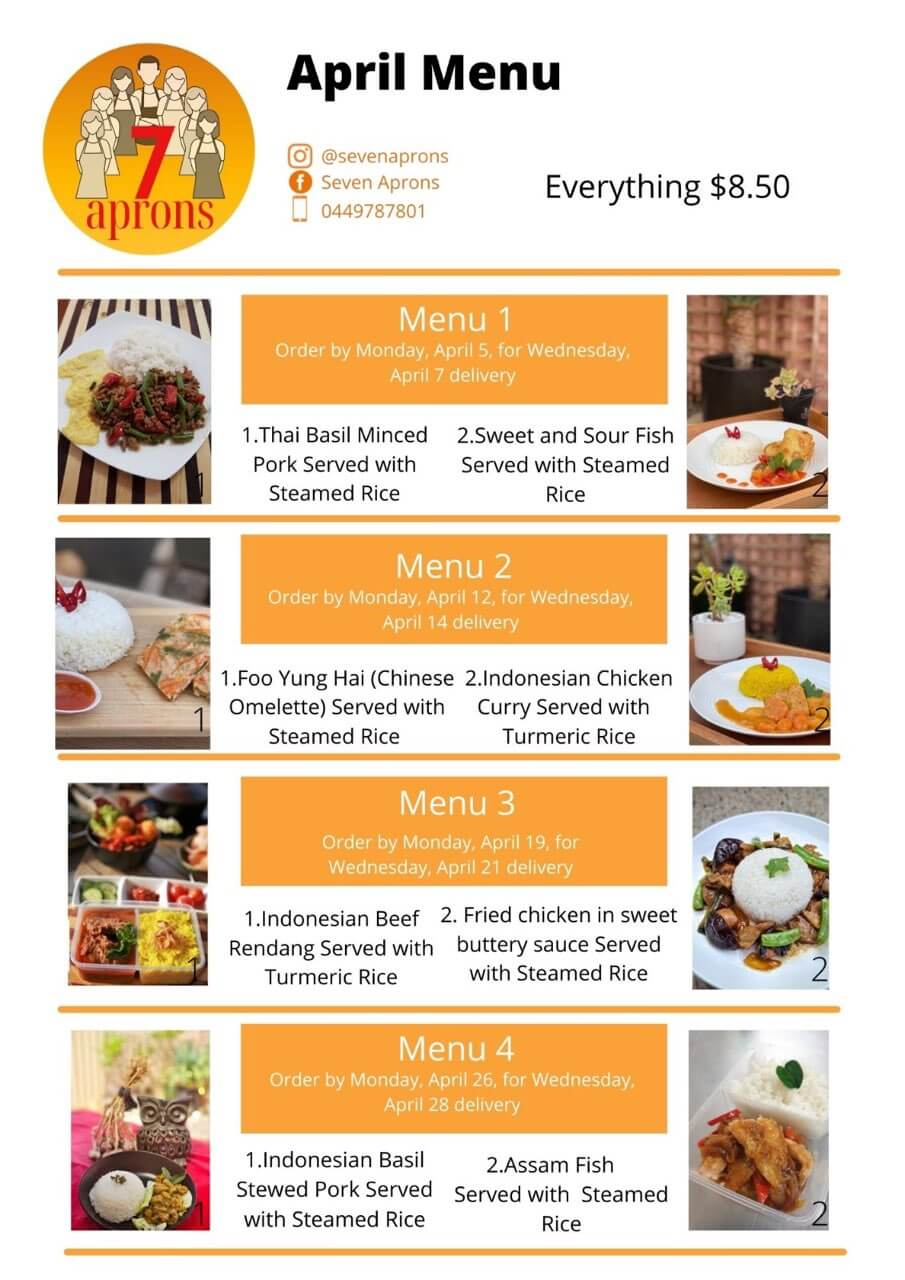
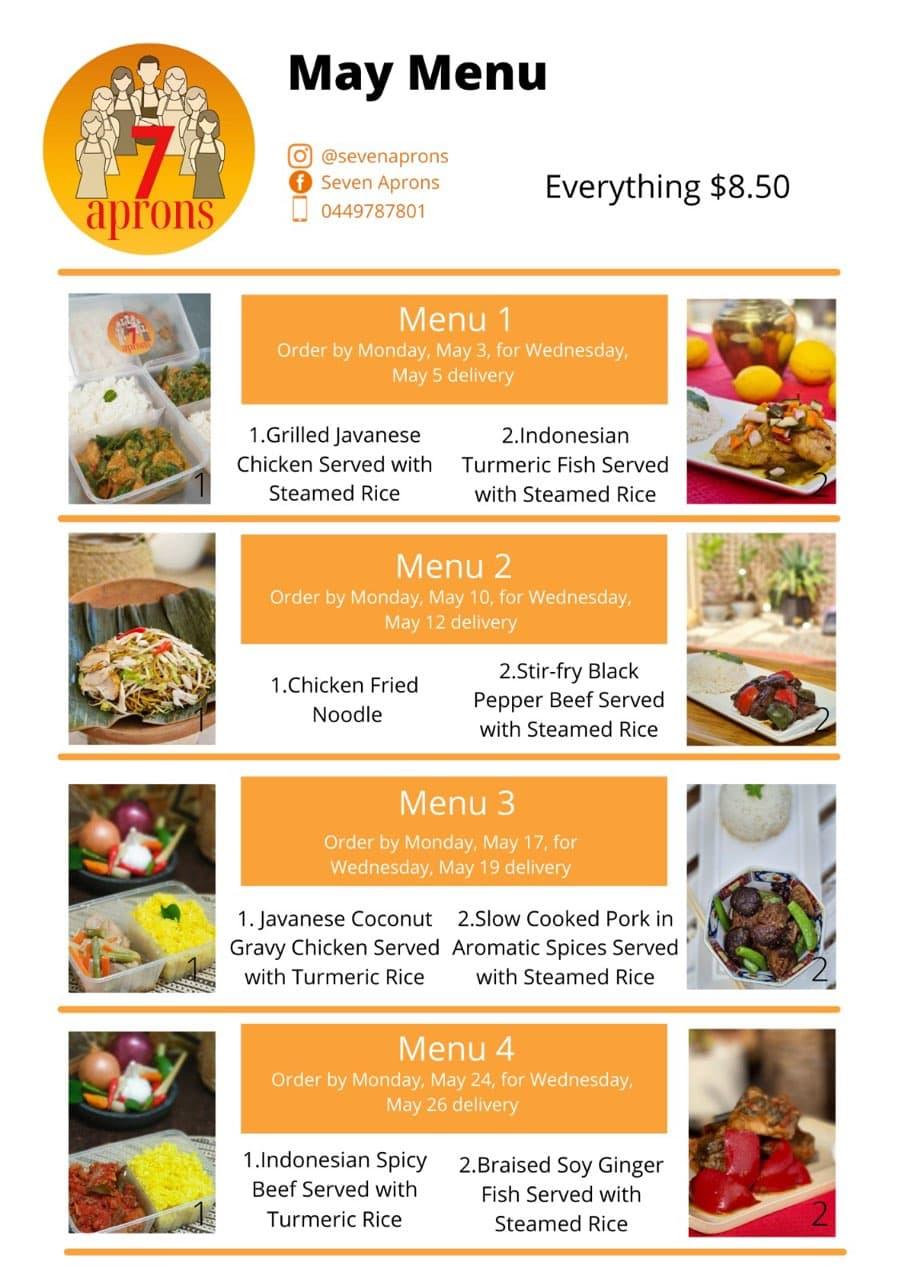
feat: update for May

Changed region(s): [[0.0619, 0.2188, 0.9282, 0.9688], [0.3094, 0.0312, 0.6188, 0.0938]]

diff --git a/components/OnlineOrder/OnlineOrder.tsx b/components/OnlineOrder/OnlineOrder.tsx
@@ -54,15 +54,10 @@ export const OnlineOrder = () => {
       <Form onSubmit={handleSubmit}>
         <Container>
           {order
-            .sort((a, b) => a.week - b.week)
+            .sort((a, b) => a.order - b.order)
             .map((item) => {
               return (
                 <div key={item.price}>
-                  {item.week.toString().slice(-1) === "1" && (
-                    <label className="mb-4 block text-right">
-                      {item.orderAndDelivery}
-                    </label>
-                  )}
                   <div className="flex items-center justify-end mb-2">
                     <div className="flex flex-col items-end mr-4">
                       <label className="text-md text-right font-medium">
@@ -80,12 +75,10 @@ export const OnlineOrder = () => {
                       style={{ maxWidth: "20%" }}
                     />
                   </div>
-                  {item.week.toString().slice(-1) === "2" && (
-                    <hr className="border-gray-200 my-4 text-center text-2xl w-full ml-auto" />
-                  )}
                 </div>
               );
             })}
+          <hr className="border-gray-200 my-4 text-center text-2xl w-full ml-auto" />
         </Container>
 
         <TotalValue order={order} />

diff --git a/pages/index.tsx b/pages/index.tsx
@@ -50,11 +50,14 @@ export default function Index() {
         <div className="container mx-auto">
           <div className="flex flex-wrap justify-center bg-white shadow-xl rounded-lg -mt-64 py-12 px-12 relative z-10">
             <div className="w-full text-center lg:w-8/12">
-              <p className="text-4xl text-center"></p>
               <h3 className="font-semibold mb-4 text-3xl">Order Online 🍛</h3>
-              <p className="mb-12 w-100 md:w-50">
-                May's menu will be released shortly. Please visit again soon. 
+              <p className="w-100 md:w-50 mb-8 text-left">
+                Order by Monday for delivery the following Wednesday, each week.
+                Please note: we are currently only delivering to{" "}
+                <strong>Perth CBD and Subiaco</strong>. We reserve the right to
+                refund any orders outside this area.
               </p>
+              <OnlineOrder />
             </div>
           </div>
         </div>

diff --git a/utils/utils.ts b/utils/utils.ts
@@ -5,21 +5,15 @@ export const domain =
 
 export const newOrder = [
   {
-    name: "Assam Fish served with Steamed Rice",
+    name: "Grilled Javanese Chicken Served with Steamed Rice",
     price: "price_1IhapyDJrsoPxmlZaJpFWcwR",
     quantity: 0,
-    week: 4.1,
-    orderAndDelivery:
-      "Order by Monday, April 26, for Wednesday, April 28 delivery",
+    order: 1,
   },
   {
-    name: "Indonesian Basil Stewed Pork Served with Steamed Rice",
+    name: "Indonesian Turmeric Fish Served with Steamed Rice",
     price: "price_1IhaqrDJrsoPxmlZMK1x4PA4",
     quantity: 0,
-    week: 4.2,
-    orderAndDelivery:
-      "Order by Monday, April 26, for Wednesday, April 28 delivery",
+    order: 2,
   },
 ];
-
-export const deliveryList = ["", ""];

diff --git a/components/OnlineOrder/styles.tsx b/components/OnlineOrder/styles.tsx
@@ -3,7 +3,6 @@ import styled from "styled-components";
 
 export const Container = styled.div`
   max-height: 40vh;
-  overflow-y: scroll;
   padding-right: 12px;
 `;
 
